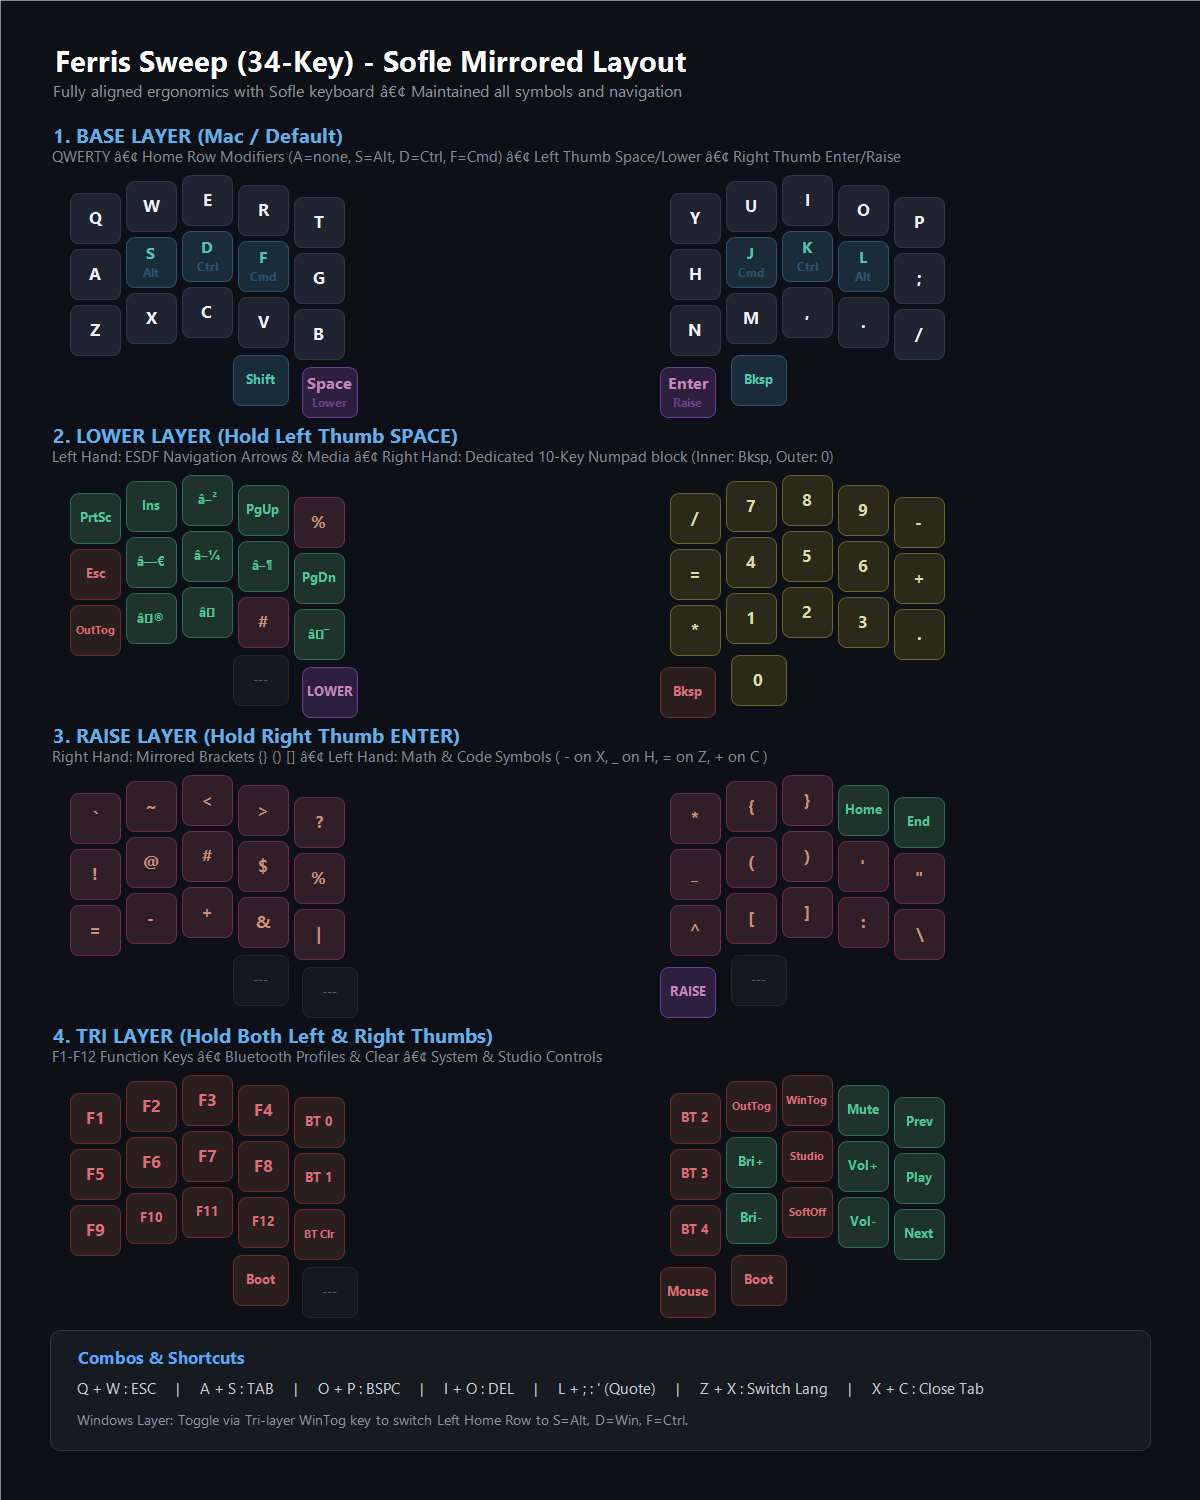
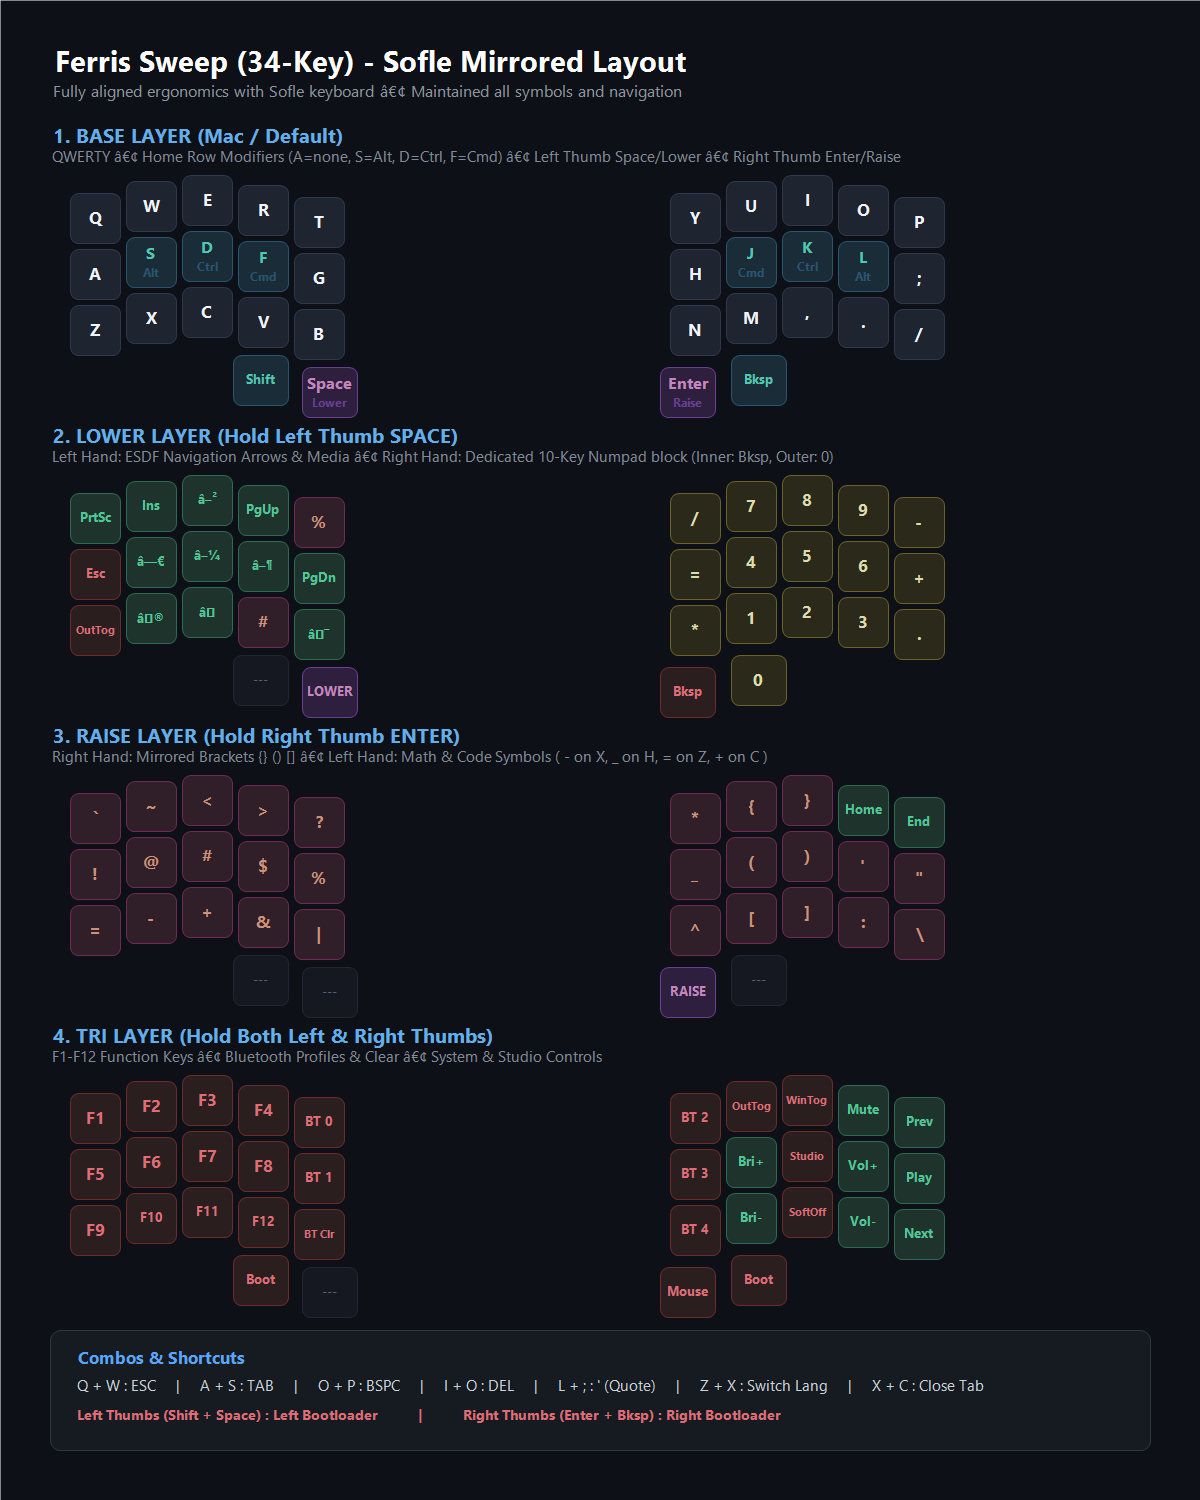
Add thumb combos for Left and Right bootloader mode

Changed region(s): [[0.0617, 0.92, 0.6783, 0.9507], [0.74, 0.92, 0.8017, 0.9507]]

diff --git a/README.md b/README.md
@@ -90,6 +90,8 @@ This configuration mirrors the Sofle ergonomic setup (`mtolpin-ergo-setup`) on t
   - `L + ;` = `'`
   - `Z + X` = Language Switch Macro
   - `X + C` = Close Tab Macro
+  - `Both Left Thumbs` (`Shift + Space`) = **Left Half Bootloader**
+  - `Both Right Thumbs` (`Enter + Backspace`) = **Right Half Bootloader**
 
 ## Bootloader and Flashing Notes
 
